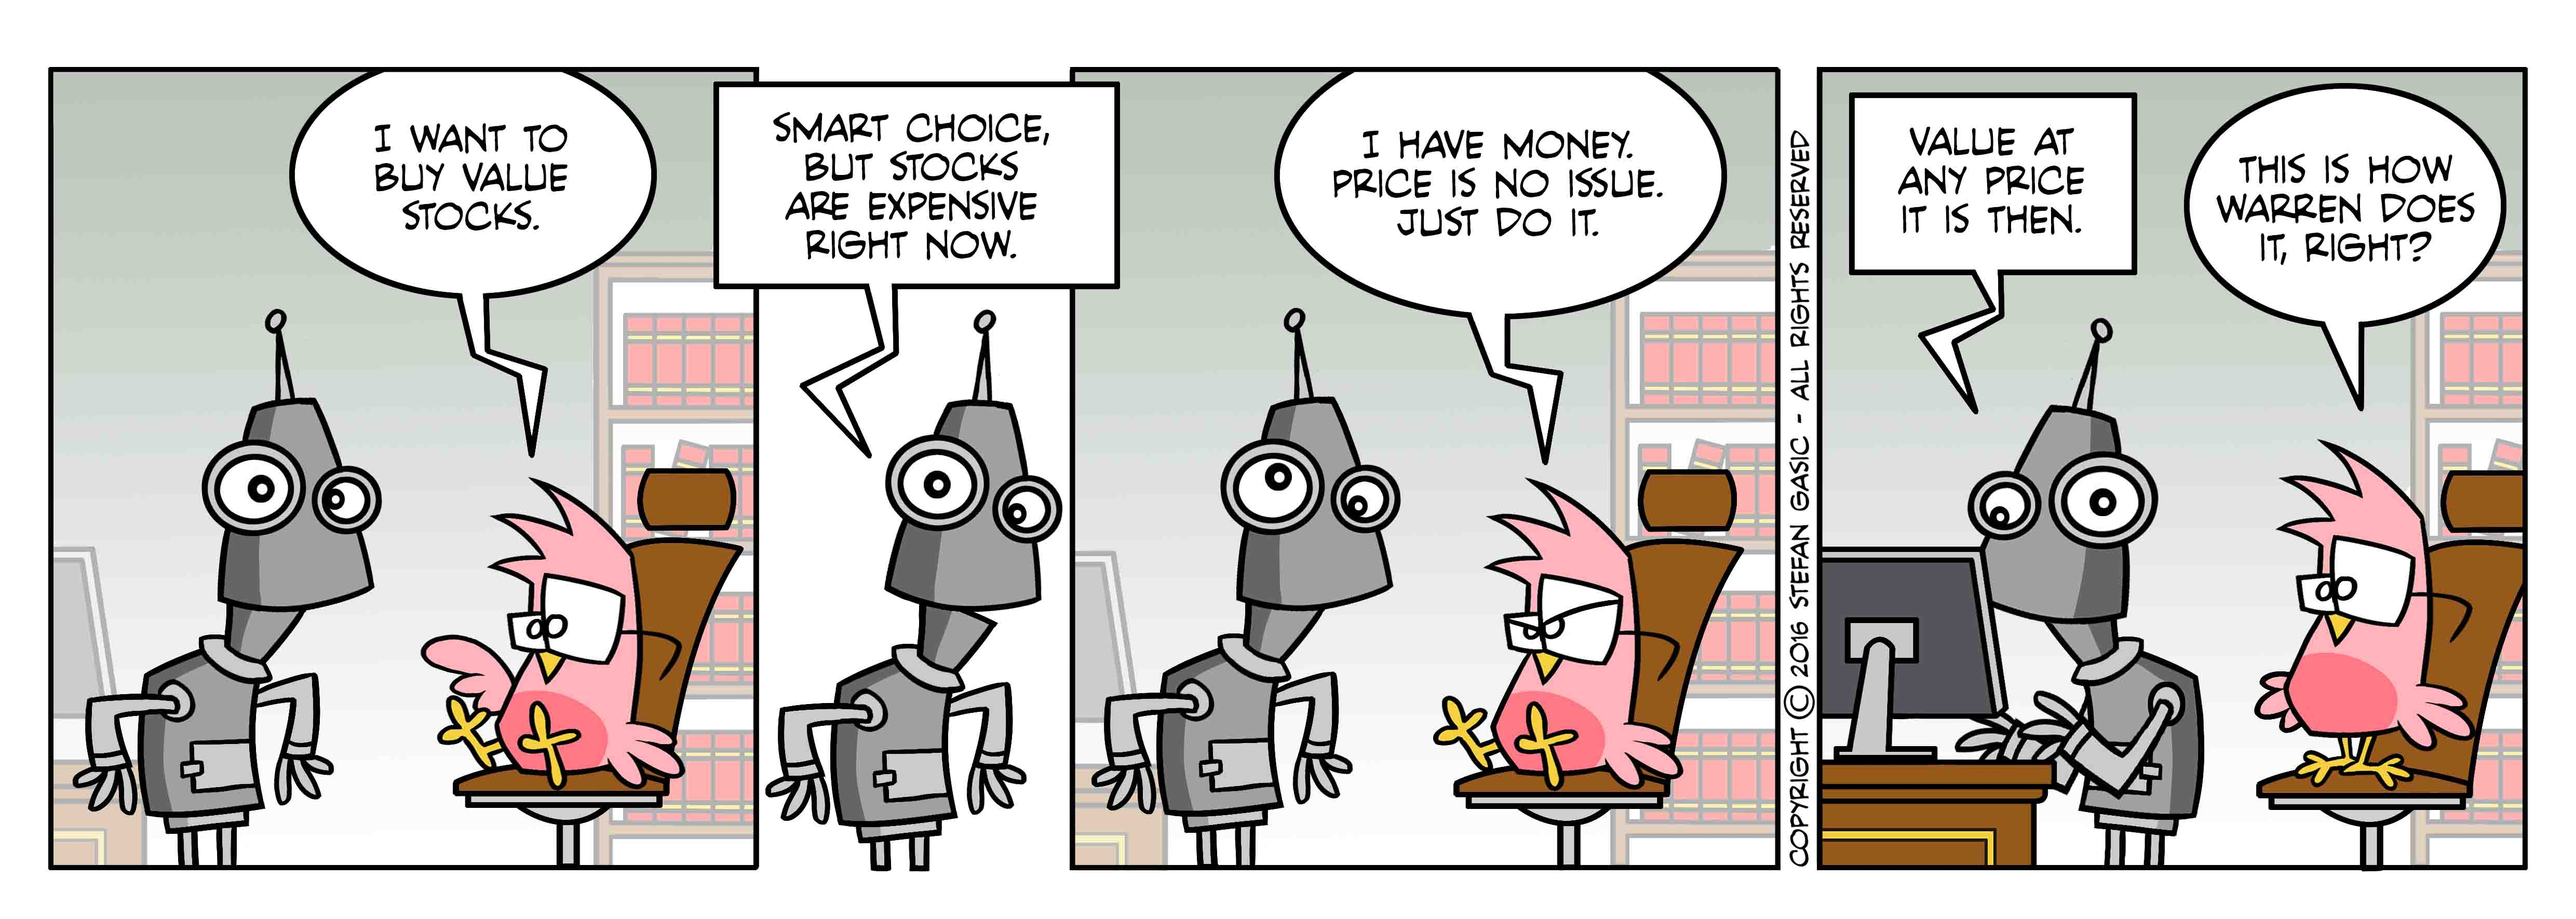
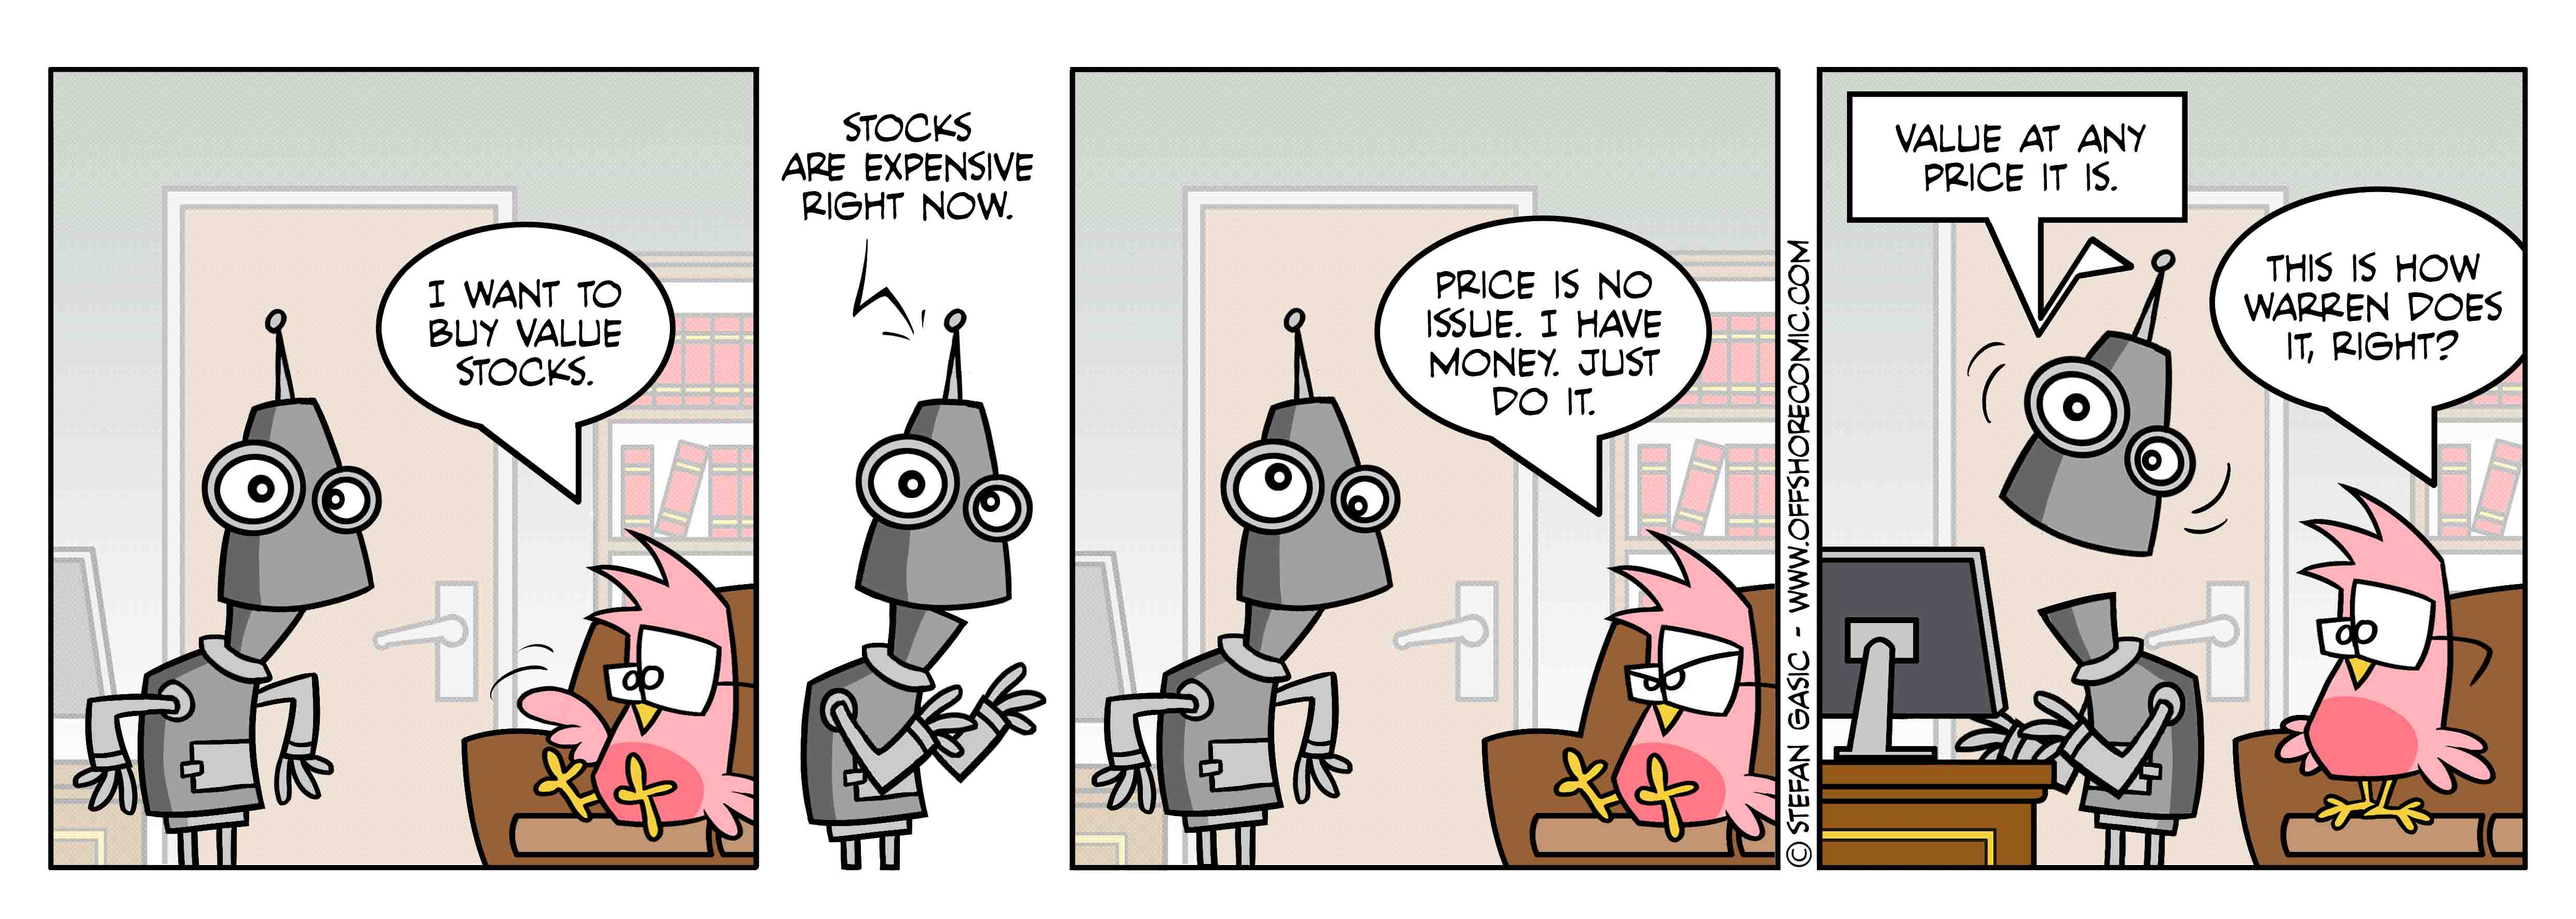
Added a new strip and updated the html and js codes accordingly.

diff --git a/myscripts.js b/myscripts.js
@@ -1,4 +1,4 @@
-var Strips = ["images/S420.jpg","images/S419.jpg","images/S418.jpg","images/S417.jpg","images/S416.jpg","images/S415.jpg","images/S414.jpg","images/S413.jpg","images/S412.jpg","images/S411.jpg","images/S410.jpg","images/S409.jpg","images/S408.jpg","images/S407.jpg","images/S406.jpg","images/S405.jpg","images/S404.jpg","images/S403.jpg","images/S402.jpg","images/S401.jpg","images/S400.jpg","images/S399.jpg","images/S398.jpg","images/S397.jpg","images/S396.jpg","images/S395.jpg","images/S394.jpg","images/S393.jpg","images/S392.jpg","images/S391.jpg","images/S390.jpg","images/S389.jpg","images/S388.jpg","images/S387.jpg","images/S386.jpg","images/S385.jpg","images/S384.jpg","images/S383.jpg","images/S382.jpg","images/S381.jpg","images/S380.jpg","images/S379.jpg","images/S378.jpg","images/S377.jpg","images/S376.jpg","images/S375.jpg","images/S374.jpg","images/S373.jpg","images/S372.jpg","images/S371.jpg","images/S370.jpg","images/S369.jpg","images/S368.jpg","images/S367.jpg","images/S366.jpg","images/S365.jpg","images/S364.jpg","images/S363.jpg","images/S362.jpg","images/S361.jpg","images/S360.jpg","images/S359.jpg","images/S358.jpg","images/S357.jpg","images/S356.jpg","images/S355.jpg","images/S354.jpg","images/S353.jpg","images/S352.jpg","images/S351.jpg","images/S350.jpg","images/S349.jpg","images/S348.jpg","images/S347.jpg","images/S346.jpg","images/S345.jpg","images/S344.jpg","images/S343.jpg","images/S342.jpg","images/S341.jpg","images/S340.jpg","images/S339.jpg","images/S338.jpg","images/S337.jpg","images/S336.jpg","images/S335.jpg","images/S334.jpg","images/S333.jpg","images/S332.jpg","images/S331.jpg","images/S330.jpg","images/S329.jpg","images/S328.jpg","images/S327.jpg","images/S326.jpg","images/S325.jpg","images/S324.jpg","images/S323.jpg","images/S322.jpg","images/S321.jpg","images/S320.jpg","images/S319.jpg","images/S318.jpg","images/S317.jpg","images/S316.jpg","images/S315.jpg","images/S314.jpg","images/S313.jpg","images/S312.jpg","images/S311.jpg","images/S310.jpg","images/S309.jpg","images/S308.jpg","images/S307.jpg","images/S306.jpg","images/S305.jpg","images/S304.jpg","images/S303.jpg","images/S302.jpg","images/S301.jpg","images/S300.jpg","images/S299.jpg","images/S298.jpg","images/S297.jpg","images/S296.jpg","images/S295.jpg","images/S294.jpg","images/S293.jpg","images/S292.jpg","images/S291.jpg","images/S290.jpg","images/S289.jpg","images/S288.jpg","images/S287.jpg","images/S286.jpg","images/S285.jpg","images/S284.jpg","images/S283.jpg","images/S282.jpg","images/S281.jpg","images/S280.jpg","images/S279.jpg","images/S278.jpg","images/S277.jpg","images/S276.jpg","images/S275.jpg","images/S274.jpg","images/S273.jpg","images/S272.jpg","images/S271.jpg","images/S270.jpg","images/S269.jpg","images/S268.jpg","images/S267.jpg","images/S266.jpg","images/S265.jpg","images/S264.jpg","images/S263.jpg","images/S262.jpg","images/S261.jpg","images/S260.jpg","images/S259.jpg","images/S258.jpg","images/S257.jpg","images/S256.jpg","images/S255.jpg","images/S254.jpg","images/S253.jpg","images/S252.jpg","images/S251.jpg","images/S250.jpg","images/S249.jpg","images/S248.jpg","images/S247.jpg","images/S246.jpg","images/S245.jpg","images/S244.jpg","images/S243.jpg","images/S242.jpg","images/S241.jpg","images/S240.jpg","images/S239.jpg","images/S238.jpg","images/S237.jpg","images/S236.jpg","images/S235.jpg","images/S234.jpg","images/S233.jpg","images/S232.jpg","images/S231.jpg","images/S230.jpg","images/S229.jpg","images/S228.jpg","images/S227.jpg","images/S226.jpg","images/S225.jpg","images/S224.jpg","images/S223.jpg","images/S222.jpg","images/S221.jpg","images/S220.jpg","images/S219.jpg","images/S218.jpg","images/S217.jpg","images/S216.jpg","images/S215.jpg","images/S214.jpg","images/S213.jpg","images/S212.jpg","images/S211.jpg","images/S210.jpg","images/S209.jpg","images/S208.jpg","images/S207.jpg","images/S206.jpg","images/S205.jpg","images/S204.jpg","images/S203.jpg","images/S202.jpg","images/S201.jpg","images/S200.jpg","images/S199.jpg","images/S198.jpg","images/S197.jpg","images/S196.jpg","images/S195.jpg","images/S194.jpg","images/S193.jpg","images/S192.jpg","images/S191.jpg","images/S190.jpg","images/S189.jpg","images/S188.jpg","images/S187.jpg","images/S186.jpg","images/S185.jpg","images/S184.jpg","images/S183.jpg","images/S182.jpg","images/S181.jpg","images/S180.jpg","images/S179.jpg","images/S178.jpg","images/S177.jpg","images/S176.jpg","images/S175.jpg","images/S174.jpg","images/S173.jpg","images/S172.jpg","images/S171.jpg","images/S170.jpg","images/S169.jpg","images/S168.jpg","images/S167.jpg","images/S166.jpg","images/S165.jpg","images/S164.jpg","images/S163.jpg","images/S162.jpg","images/S161.jpg","images/S160.jpg","images/S159.jpg","images/S158.jpg","images/S157.jpg","images/S156.jpg","images/S155.jpg","images/S154.jpg","images/S153.jpg","images/S152.jpg","images/S151.jpg","images/S150.jpg","images/S149.jpg","images/S148.jpg","images/S147.jpg","images/S146.jpg","images/S145.jpg","images/S144.jpg","images/S143.jpg","images/S142.jpg","images/S141.jpg","images/S140.jpg","images/S139.jpg","images/S138.jpg","images/S137.jpg","images/S136.jpg","images/S135.jpg","images/S134.jpg","images/S133.jpg","images/S132.jpg","images/S131.jpg","images/S130.jpg","images/S129.jpg","images/S128.jpg","images/S127.jpg","images/S126.jpg","images/S125.jpg","images/S124.jpg","images/S123.jpg","images/S122.jpg","images/S121.jpg","images/S120.jpg","images/S119.jpg","images/S118.jpg","images/S117.jpg","images/S116.jpg","images/S115.jpg","images/S114.jpg","images/S113.jpg","images/S112.jpg","images/S111.jpg","images/S110.jpg","images/S109.jpg","images/S108.jpg","images/S107.jpg","images/S106.jpg","images/S105.jpg","images/S104.jpg","images/S103.jpg","images/S102.jpg","images/S101.jpg","images/S100.jpg","images/S99.jpg","images/S98.jpg","images/S97.jpg","images/S96.jpg","images/S95.jpg","images/S94.jpg","images/S93.jpg","images/S92.jpg","images/S91.jpg","images/S90.jpg","images/S89.jpg","images/S88.jpg","images/S87.jpg","images/S86.jpg","images/S85.jpg","images/S84.jpg","images/S83.jpg","images/S82.jpg","images/S81.jpg","images/S80.jpg","images/S79.jpg","images/S78.jpg","images/S77.jpg","images/S76.jpg","images/S75.jpg","images/S74.jpg","images/S73.jpg","images/S72.jpg","images/S71.jpg","images/S70.jpg","images/S69.jpg","images/S68.jpg","images/S67.jpg","images/S66.jpg","images/S65.jpg","images/S64.jpg","images/S63.jpg","images/S62.jpg","images/S61.jpg","images/S60.jpg","images/S59.jpg","images/S58.jpg","images/S57.jpg","images/S56.jpg","images/S55.jpg","images/S54.jpg","images/S53.jpg","images/S52.jpg","images/S51.jpg","images/S50.jpg","images/S49.jpg","images/S48.jpg","images/S47.jpg","images/S46.jpg","images/S45.jpg","images/S44.jpg","images/S43.jpg","images/S42.jpg","images/S41.jpg","images/S40.jpg","images/S39.jpg","images/S38.jpg","images/S37.jpg","images/S36.jpg","images/S35.jpg","images/S34.jpg","images/S33.jpg","images/S32.jpg","images/S31.jpg","images/S30.jpg","images/S29.jpg","images/S28.jpg","images/S27.jpg","images/S26.jpg","images/S25.jpg","images/S24.jpg","images/S23.jpg","images/S22.jpg","images/S21.jpg","images/S20.jpg","images/S19.jpg","images/S18.jpg","images/S17.jpg","images/S16.jpg","images/S15.jpg","images/S14.jpg","images/S13.jpg","images/S12.jpg","images/S11.jpg","images/S10.jpg","images/S9.jpg","images/S8.jpg","images/S7.jpg","images/S6.jpg","images/S5.jpg","images/S4.jpg","images/S3.jpg","images/S2.jpg","images/S1.jpg"];
+var Strips = ["images/S421.jpg","images/S420.jpg","images/S419.jpg","images/S418.jpg","images/S417.jpg","images/S416.jpg","images/S415.jpg","images/S414.jpg","images/S413.jpg","images/S412.jpg","images/S411.jpg","images/S410.jpg","images/S409.jpg","images/S408.jpg","images/S407.jpg","images/S406.jpg","images/S405.jpg","images/S404.jpg","images/S403.jpg","images/S402.jpg","images/S401.jpg","images/S400.jpg","images/S399.jpg","images/S398.jpg","images/S397.jpg","images/S396.jpg","images/S395.jpg","images/S394.jpg","images/S393.jpg","images/S392.jpg","images/S391.jpg","images/S390.jpg","images/S389.jpg","images/S388.jpg","images/S387.jpg","images/S386.jpg","images/S385.jpg","images/S384.jpg","images/S383.jpg","images/S382.jpg","images/S381.jpg","images/S380.jpg","images/S379.jpg","images/S378.jpg","images/S377.jpg","images/S376.jpg","images/S375.jpg","images/S374.jpg","images/S373.jpg","images/S372.jpg","images/S371.jpg","images/S370.jpg","images/S369.jpg","images/S368.jpg","images/S367.jpg","images/S366.jpg","images/S365.jpg","images/S364.jpg","images/S363.jpg","images/S362.jpg","images/S361.jpg","images/S360.jpg","images/S359.jpg","images/S358.jpg","images/S357.jpg","images/S356.jpg","images/S355.jpg","images/S354.jpg","images/S353.jpg","images/S352.jpg","images/S351.jpg","images/S350.jpg","images/S349.jpg","images/S348.jpg","images/S347.jpg","images/S346.jpg","images/S345.jpg","images/S344.jpg","images/S343.jpg","images/S342.jpg","images/S341.jpg","images/S340.jpg","images/S339.jpg","images/S338.jpg","images/S337.jpg","images/S336.jpg","images/S335.jpg","images/S334.jpg","images/S333.jpg","images/S332.jpg","images/S331.jpg","images/S330.jpg","images/S329.jpg","images/S328.jpg","images/S327.jpg","images/S326.jpg","images/S325.jpg","images/S324.jpg","images/S323.jpg","images/S322.jpg","images/S321.jpg","images/S320.jpg","images/S319.jpg","images/S318.jpg","images/S317.jpg","images/S316.jpg","images/S315.jpg","images/S314.jpg","images/S313.jpg","images/S312.jpg","images/S311.jpg","images/S310.jpg","images/S309.jpg","images/S308.jpg","images/S307.jpg","images/S306.jpg","images/S305.jpg","images/S304.jpg","images/S303.jpg","images/S302.jpg","images/S301.jpg","images/S300.jpg","images/S299.jpg","images/S298.jpg","images/S297.jpg","images/S296.jpg","images/S295.jpg","images/S294.jpg","images/S293.jpg","images/S292.jpg","images/S291.jpg","images/S290.jpg","images/S289.jpg","images/S288.jpg","images/S287.jpg","images/S286.jpg","images/S285.jpg","images/S284.jpg","images/S283.jpg","images/S282.jpg","images/S281.jpg","images/S280.jpg","images/S279.jpg","images/S278.jpg","images/S277.jpg","images/S276.jpg","images/S275.jpg","images/S274.jpg","images/S273.jpg","images/S272.jpg","images/S271.jpg","images/S270.jpg","images/S269.jpg","images/S268.jpg","images/S267.jpg","images/S266.jpg","images/S265.jpg","images/S264.jpg","images/S263.jpg","images/S262.jpg","images/S261.jpg","images/S260.jpg","images/S259.jpg","images/S258.jpg","images/S257.jpg","images/S256.jpg","images/S255.jpg","images/S254.jpg","images/S253.jpg","images/S252.jpg","images/S251.jpg","images/S250.jpg","images/S249.jpg","images/S248.jpg","images/S247.jpg","images/S246.jpg","images/S245.jpg","images/S244.jpg","images/S243.jpg","images/S242.jpg","images/S241.jpg","images/S240.jpg","images/S239.jpg","images/S238.jpg","images/S237.jpg","images/S236.jpg","images/S235.jpg","images/S234.jpg","images/S233.jpg","images/S232.jpg","images/S231.jpg","images/S230.jpg","images/S229.jpg","images/S228.jpg","images/S227.jpg","images/S226.jpg","images/S225.jpg","images/S224.jpg","images/S223.jpg","images/S222.jpg","images/S221.jpg","images/S220.jpg","images/S219.jpg","images/S218.jpg","images/S217.jpg","images/S216.jpg","images/S215.jpg","images/S214.jpg","images/S213.jpg","images/S212.jpg","images/S211.jpg","images/S210.jpg","images/S209.jpg","images/S208.jpg","images/S207.jpg","images/S206.jpg","images/S205.jpg","images/S204.jpg","images/S203.jpg","images/S202.jpg","images/S201.jpg","images/S200.jpg","images/S199.jpg","images/S198.jpg","images/S197.jpg","images/S196.jpg","images/S195.jpg","images/S194.jpg","images/S193.jpg","images/S192.jpg","images/S191.jpg","images/S190.jpg","images/S189.jpg","images/S188.jpg","images/S187.jpg","images/S186.jpg","images/S185.jpg","images/S184.jpg","images/S183.jpg","images/S182.jpg","images/S181.jpg","images/S180.jpg","images/S179.jpg","images/S178.jpg","images/S177.jpg","images/S176.jpg","images/S175.jpg","images/S174.jpg","images/S173.jpg","images/S172.jpg","images/S171.jpg","images/S170.jpg","images/S169.jpg","images/S168.jpg","images/S167.jpg","images/S166.jpg","images/S165.jpg","images/S164.jpg","images/S163.jpg","images/S162.jpg","images/S161.jpg","images/S160.jpg","images/S159.jpg","images/S158.jpg","images/S157.jpg","images/S156.jpg","images/S155.jpg","images/S154.jpg","images/S153.jpg","images/S152.jpg","images/S151.jpg","images/S150.jpg","images/S149.jpg","images/S148.jpg","images/S147.jpg","images/S146.jpg","images/S145.jpg","images/S144.jpg","images/S143.jpg","images/S142.jpg","images/S141.jpg","images/S140.jpg","images/S139.jpg","images/S138.jpg","images/S137.jpg","images/S136.jpg","images/S135.jpg","images/S134.jpg","images/S133.jpg","images/S132.jpg","images/S131.jpg","images/S130.jpg","images/S129.jpg","images/S128.jpg","images/S127.jpg","images/S126.jpg","images/S125.jpg","images/S124.jpg","images/S123.jpg","images/S122.jpg","images/S121.jpg","images/S120.jpg","images/S119.jpg","images/S118.jpg","images/S117.jpg","images/S116.jpg","images/S115.jpg","images/S114.jpg","images/S113.jpg","images/S112.jpg","images/S111.jpg","images/S110.jpg","images/S109.jpg","images/S108.jpg","images/S107.jpg","images/S106.jpg","images/S105.jpg","images/S104.jpg","images/S103.jpg","images/S102.jpg","images/S101.jpg","images/S100.jpg","images/S99.jpg","images/S98.jpg","images/S97.jpg","images/S96.jpg","images/S95.jpg","images/S94.jpg","images/S93.jpg","images/S92.jpg","images/S91.jpg","images/S90.jpg","images/S89.jpg","images/S88.jpg","images/S87.jpg","images/S86.jpg","images/S85.jpg","images/S84.jpg","images/S83.jpg","images/S82.jpg","images/S81.jpg","images/S80.jpg","images/S79.jpg","images/S78.jpg","images/S77.jpg","images/S76.jpg","images/S75.jpg","images/S74.jpg","images/S73.jpg","images/S72.jpg","images/S71.jpg","images/S70.jpg","images/S69.jpg","images/S68.jpg","images/S67.jpg","images/S66.jpg","images/S65.jpg","images/S64.jpg","images/S63.jpg","images/S62.jpg","images/S61.jpg","images/S60.jpg","images/S59.jpg","images/S58.jpg","images/S57.jpg","images/S56.jpg","images/S55.jpg","images/S54.jpg","images/S53.jpg","images/S52.jpg","images/S51.jpg","images/S50.jpg","images/S49.jpg","images/S48.jpg","images/S47.jpg","images/S46.jpg","images/S45.jpg","images/S44.jpg","images/S43.jpg","images/S42.jpg","images/S41.jpg","images/S40.jpg","images/S39.jpg","images/S38.jpg","images/S37.jpg","images/S36.jpg","images/S35.jpg","images/S34.jpg","images/S33.jpg","images/S32.jpg","images/S31.jpg","images/S30.jpg","images/S29.jpg","images/S28.jpg","images/S27.jpg","images/S26.jpg","images/S25.jpg","images/S24.jpg","images/S23.jpg","images/S22.jpg","images/S21.jpg","images/S20.jpg","images/S19.jpg","images/S18.jpg","images/S17.jpg","images/S16.jpg","images/S15.jpg","images/S14.jpg","images/S13.jpg","images/S12.jpg","images/S11.jpg","images/S10.jpg","images/S9.jpg","images/S8.jpg","images/S7.jpg","images/S6.jpg","images/S5.jpg","images/S4.jpg","images/S3.jpg","images/S2.jpg","images/S1.jpg"];
 
 var Current = 0;
 var myStrip = null;

diff --git a/index.html b/index.html
@@ -39,7 +39,7 @@
         <div class="count">
           <strong><span id="currentCount"></span></strong> out of <strong><span id="totalCount"></span></strong>
         </div>
-		<div class="wrap-item1"><img src="images/S420.jpg" id="Strip"/></div>
+		<div class="wrap-item1"><img src="images/S421.jpg" id="Strip"/></div>
 		<div class="wrapper3">
 			<div class="wrap-item3">
 			<button class="button" onClick="Last();">&lsaquo;&lsaquo;</button>
